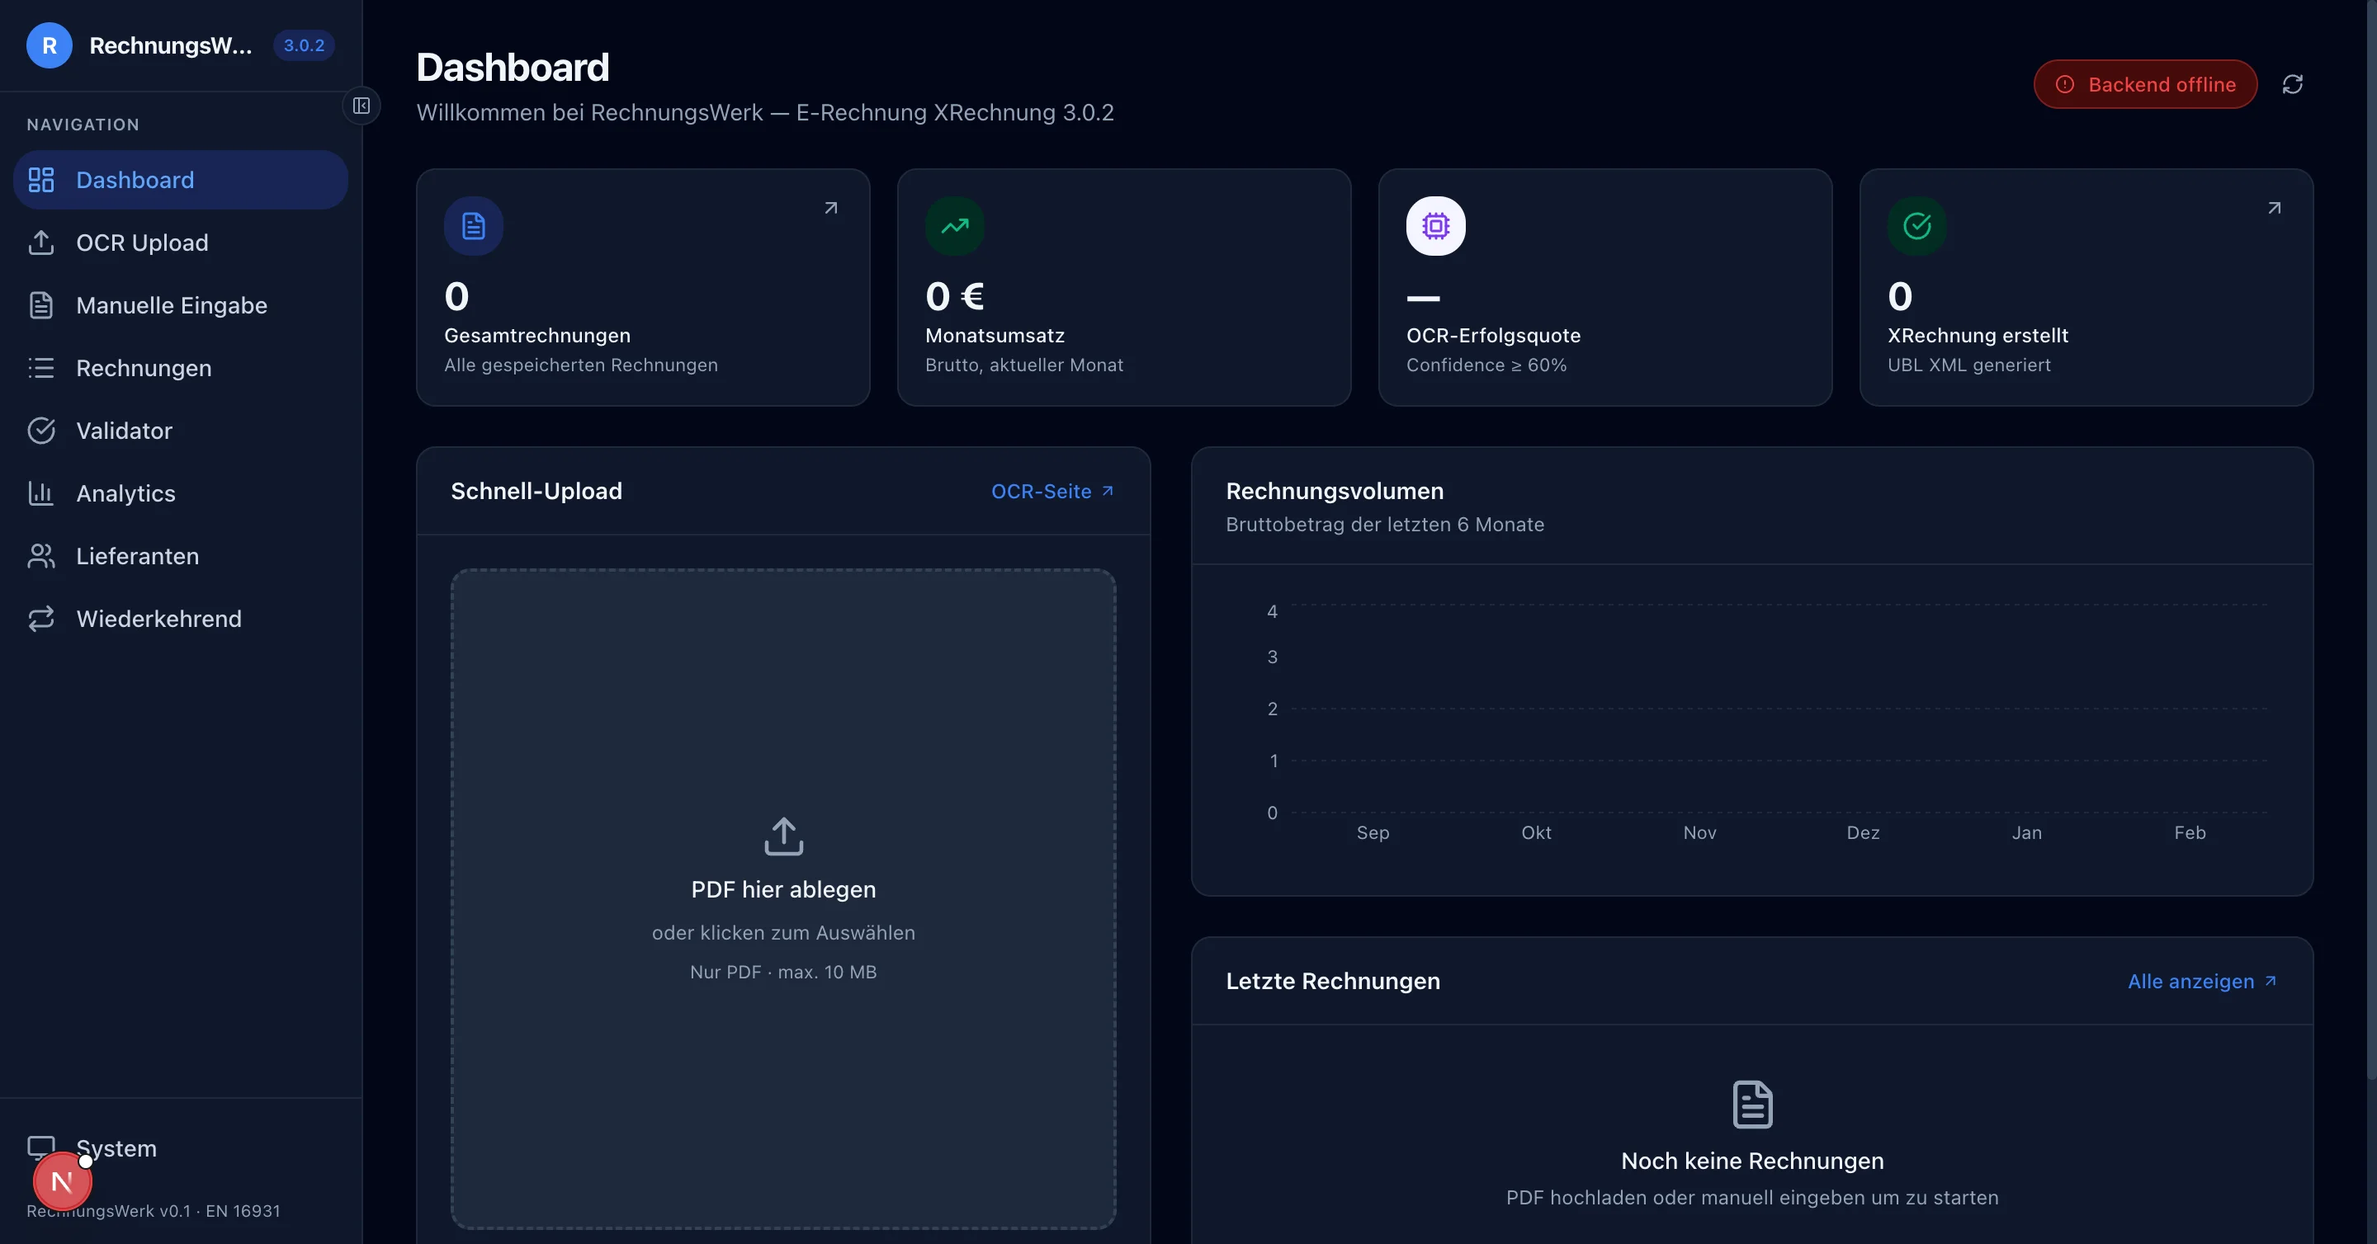
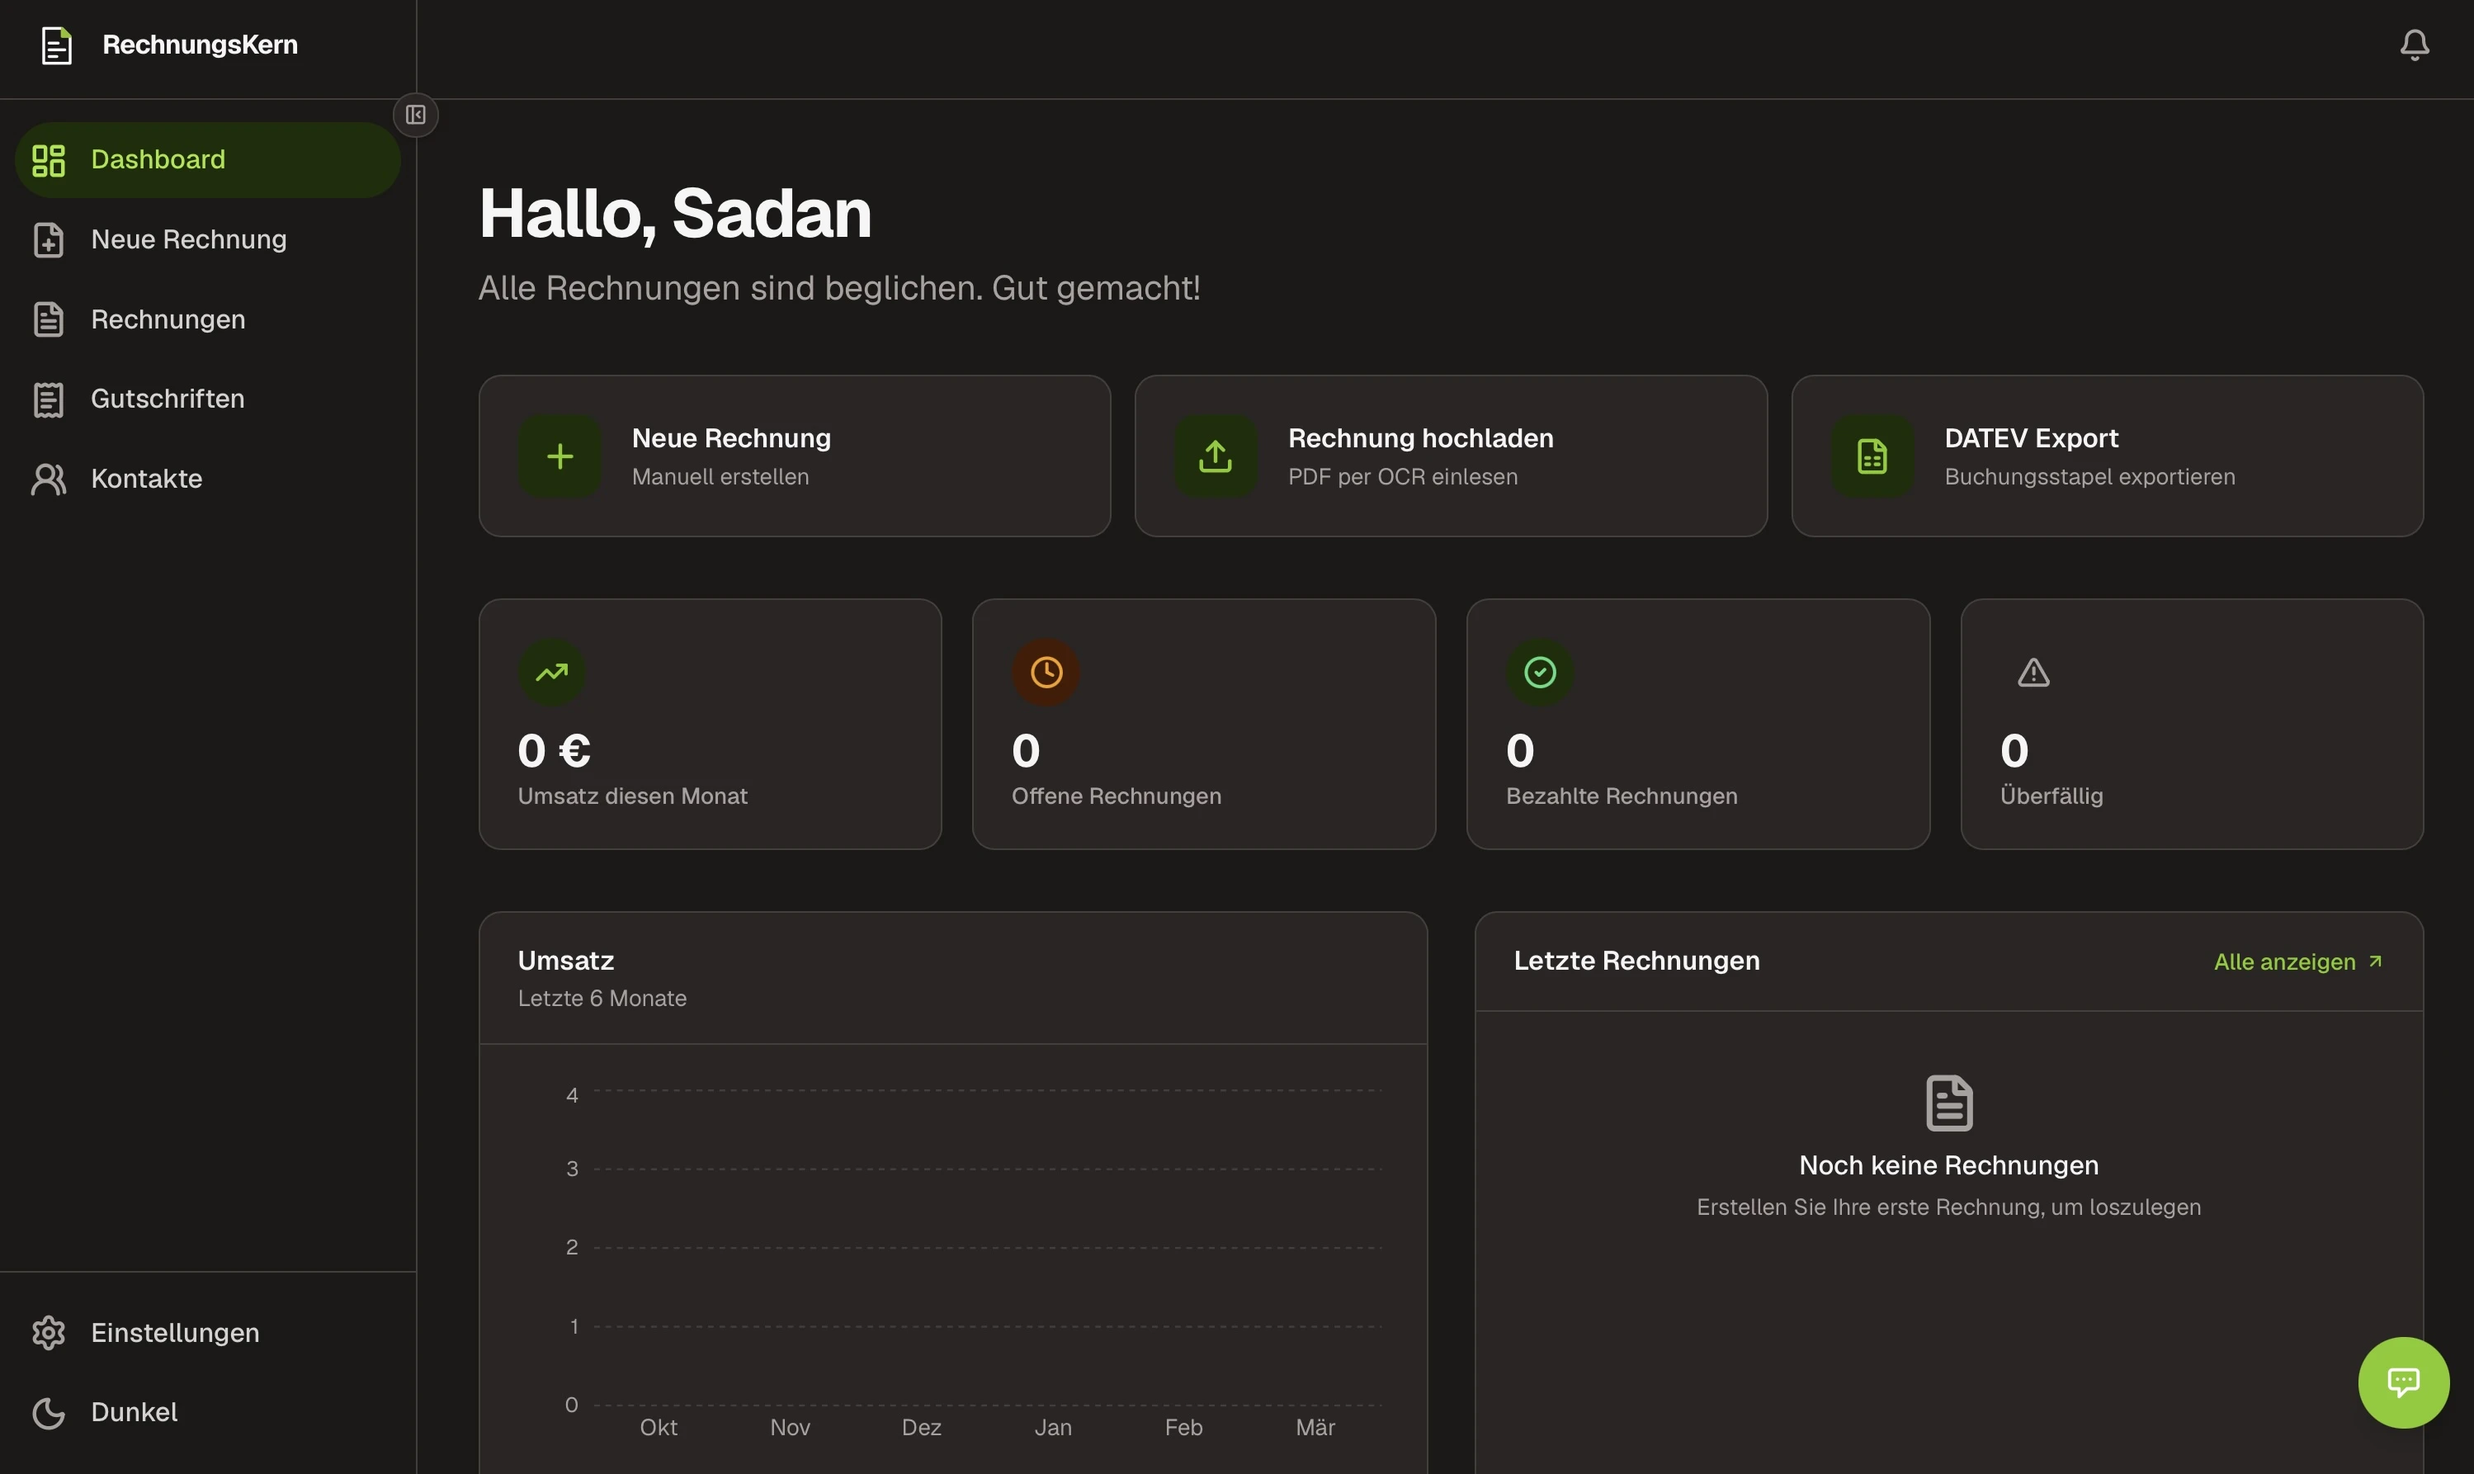
update: RechnungsWerk → RechnungsKern, new screenshot
- Rename project title in DE and EN
- Replace screenshot with new dark-theme RechnungsKern UI

diff --git a/src/i18n/projects.ts b/src/i18n/projects.ts
@@ -14,7 +14,7 @@ const projectsData: Record<Lang, Project[]> = {
   de: [
     {
       id: 'rechnungswerk',
-      title: 'RechnungsWerk',
+      title: 'RechnungsKern',
       description: 'E-Invoicing-Plattform für XRechnung und ZUGFeRD — EU-konforme elektronische Rechnungen generieren, validieren und versenden.',
       features: [
         'XRechnung & ZUGFeRD Generierung',
@@ -86,7 +86,7 @@ const projectsData: Record<Lang, Project[]> = {
   en: [
     {
       id: 'rechnungswerk',
-      title: 'RechnungsWerk',
+      title: 'RechnungsKern',
       description: 'E-invoicing platform for XRechnung and ZUGFeRD — generate, validate, and send EU-compliant electronic invoices.',
       features: [
         'XRechnung & ZUGFeRD generation',
